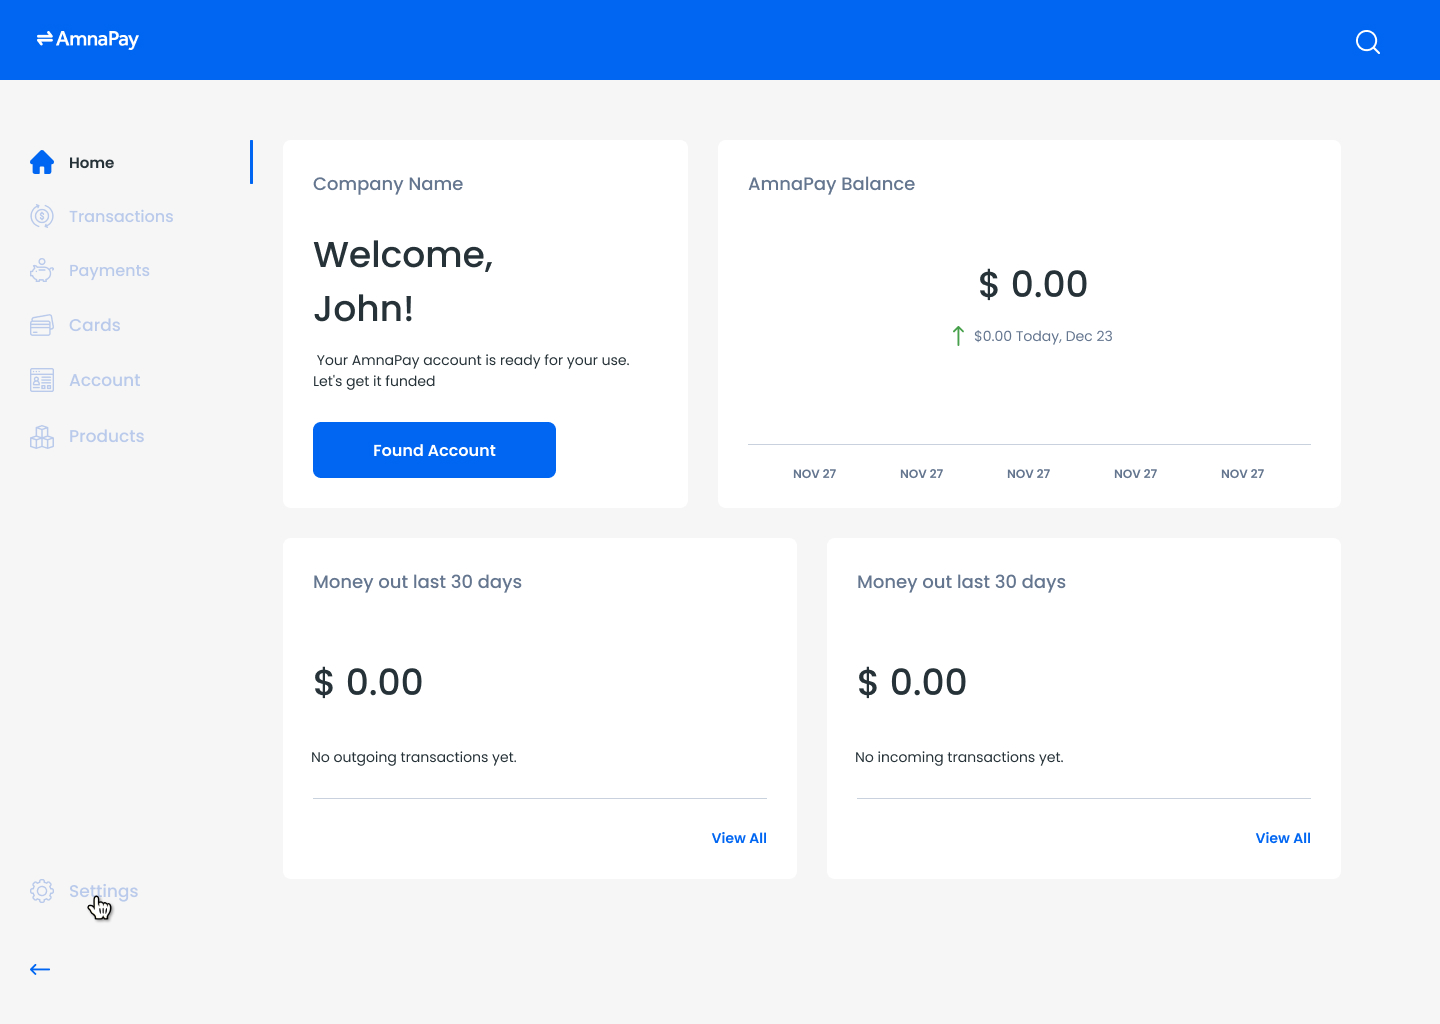
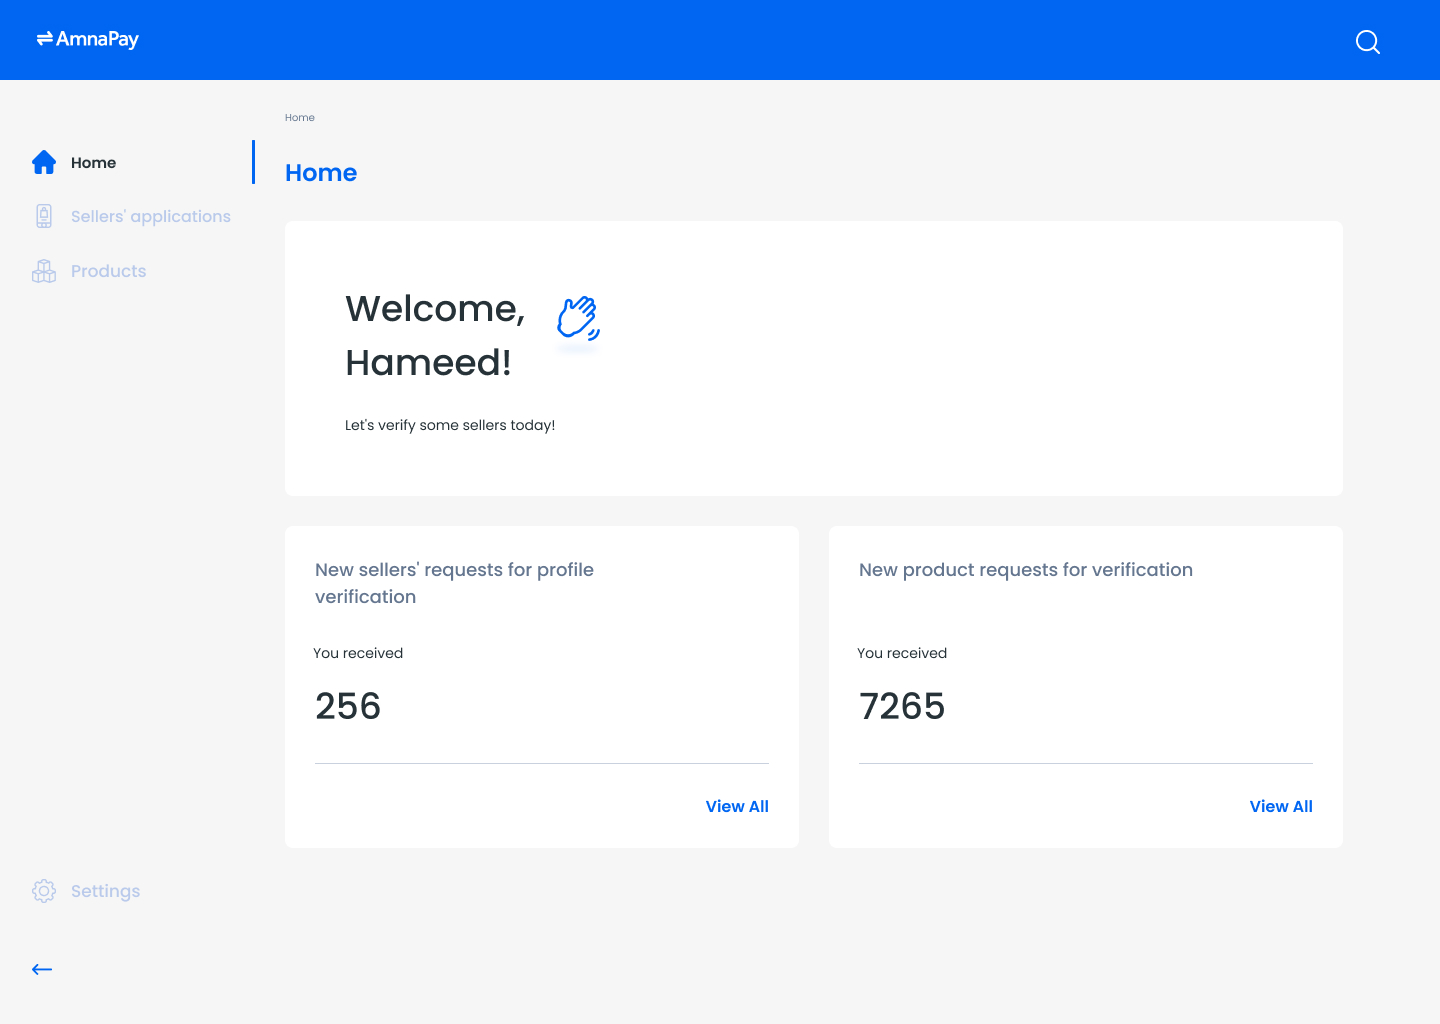
added underwriter's home page, fixed seller's home page

diff --git a/home_seller.html b/home_seller.html
@@ -85,73 +85,83 @@
               Log Out
             </a>
           </div>
-          <a href="#" class="link main-menu__link main-menu__settings-link">
-            <img src="./assets/images/icons/profile/settings.svg" class="main-menu__link-block" />
-            <img src="./assets/images/icons/profile/settings_active.svg" class="main-menu__link-block--active" />
-            Settings
-          </a>
+          <div class="main-menu__footer">
+            <a href="#" class="link main-menu__link main-menu__footer-settings">
+              <img src="./assets/images/icons/profile/settings.svg" class="main-menu__link-block" />
+              <img src="./assets/images/icons/profile/settings_active.svg" class="main-menu__link-block--active" />
+              Settings
+            </a>
+            <a href="#" class="link main-menu__link main-menu__footer-close">
+              <img src="./assets/images/icons/profile/arrow.svg" class="main-menu__link-block" />
+            </a>
+          </div>
         </div>
       </aside>
-      <div class="main-content main-content--bricks">
-        <div class="main-content--bricks--small bricks-content">
-          <h3 class="bricks-title">Company Name</h3>
-          <h2 class="bricks-content-title">
-            Welcome,
-            <span>John!</span>
-          </h2>
-          <div class="bricks-content-txt">
-            Your AmnaPay account is ready for your use. Let's get it funded
-          </div>
-          <input type="button" value="Found Account" class="input input--btn bricks-btn" />
-        </div>
-        <div class="main-content--bricks--big">
-          <h3 class="bricks-title">AmnaPay Balance</h3>
-          <div class="graph">
-            <h2 class="graph-money">$ 0.00</h2>
-            <div class="graph-status graph-status--negative">
-              <img src="./assets/images/icons/content/arrow-positive.svg"
-                class="graph-status__img graph-status__img--positive" />
-              <img src="./assets/images/icons/content/arrow-positive.svg"
-                class="graph-status__img graph-status__img--negative" />
-              <span>$0.00 Today, Dec 23</span>
+      <section class="main-box">
+        <p class="main-box__bread-crumbs">Profile/ Edition</p>
+        <h2 class="main-box__title">Personal Profile</h2>
+        <div class="main-content--bricks">
+          <div class="main-content--bricks--small bricks-content">
+            <h3 class="bricks-title">Company Name</h3>
+            <h2 class="bricks-content-title">
+              Welcome,
+              <span>John!</span>
+            </h2>
+            <div class="bricks-content-txt">
+              Your AmnaPay account is ready for your use. Let's get it funded
             </div>
-            <div class="graph-body">
-              <div class="graph-body__bottom">
-                <div>nov 27</div>
-                <div>nov 27</div>
-                <div>nov 27</div>
-                <div>nov 27</div>
-                <div>nov 27</div>
-                <div>nov 27</div>
+            <input type="button" value="Found Account" class="input input--btn bricks-btn" />
+          </div>
+          <div class="main-content--bricks--big">
+            <h3 class="bricks-title">AmnaPay Balance</h3>
+            <div class="graph">
+              <h2 class="graph-money">$ 0.00</h2>
+              <div class="graph-status graph-status--negative">
+                <img src="./assets/images/icons/content/arrow-positive.svg"
+                  class="graph-status__img graph-status__img--positive" />
+                <img src="./assets/images/icons/content/arrow-positive.svg"
+                  class="graph-status__img graph-status__img--negative" />
+                <span>$0.00 Today, Dec 23</span>
+              </div>
+              <div class="graph-body">
+                <div class="graph-body__bottom">
+                  <div>nov 27</div>
+                  <div>nov 27</div>
+                  <div>nov 27</div>
+                  <div>nov 27</div>
+                  <div>nov 27</div>
+                  <div>nov 27</div>
+                </div>
+              </div>
+            </div>
+          </div>
+          <div class="main-content--bricks--medium">
+            <h3 class="bricks-title">Money out last 30 days</h3>
+            <div class="bricks-content">
+              <h2 class="bricks-content__money">$ 0.00</h2>
+              <div class="bricks-content__status">
+                No outgoing transactions yet.
+              </div>
+              <div class="bricks-content__links">
+                <a href="#" class="link txt--blue bricks-content__links-item">View All</a>
+              </div>
+            </div>
+          </div>
+          <div class="main-content--bricks--medium">
+            <h3 class="bricks-title">Money out last 30 days</h3>
+            <div class="bricks-content">
+              <h2 class="bricks-content__money">$ 0.00</h2>
+              <div class="bricks-content__status">
+                No outgoing transactions yet.
+              </div>
+              <div class="bricks-content__links">
+                <a href="#" class="link txt--blue bricks-content__links-item">View All</a>
               </div>
             </div>
           </div>
         </div>
-        <div class="main-content--bricks--medium">
-          <h3 class="bricks-title">Money out last 30 days</h3>
-          <div class="bricks-content">
-            <h2 class="bricks-content__money">$ 0.00</h2>
-            <div class="bricks-content__status">
-              No outgoing transactions yet.
-            </div>
-            <div class="bricks-content__links">
-              <a href="#" class="link txt--blue bricks-content__links-item">View All</a>
-            </div>
-          </div>
-        </div>
-        <div class="main-content--bricks--medium">
-          <h3 class="bricks-title">Money out last 30 days</h3>
-          <div class="bricks-content">
-            <h2 class="bricks-content__money">$ 0.00</h2>
-            <div class="bricks-content__status">
-              No outgoing transactions yet.
-            </div>
-            <div class="bricks-content__links">
-              <a href="#" class="link txt--blue bricks-content__links-item">View All</a>
-            </div>
-          </div>
-        </div>
-      </div>
+      </section>
+      
     </div>
   </main>
 </body>

diff --git a/home_underwriter.html b/home_underwriter.html
@@ -1,0 +1,118 @@
+<!DOCTYPE html>
+<html lang="en">
+
+<head>
+  <meta charset="UTF-8" />
+  <meta http-equiv="X-UA-Compatible" content="IE=edge" />
+  <meta name="viewport" content="width=device-width, initial-scale=1.0" />
+  <title>profile</title>
+  <link rel="stylesheet" href="./assets/styles/style.css" />
+</head>
+
+<body>
+  <header class="header">
+    <div class="wrapper">
+      <div class="header-box">
+        <a href="#" class="header-box__logo"></a>
+      </div>
+    </div>
+  </header>
+  <main class="body-grey">
+    <div class="main wrapper">
+      <aside class="main-menu main-menu--padding">
+        <a href="#" class="link main-menu__link main-menu__link--active">
+          <img src="./assets/images/icons/profile/personal_profile.svg" class="main-menu__link-block" />
+          <img src="./assets/images/icons/profile/personal_profile_active.svg" class="main-menu__link-block--active" />
+          Home
+        </a>
+        <a href="#" class="link main-menu__link">
+          <img src="./assets/images/icons/profile/phone.svg" class="main-menu__link-block" />
+          <img src="./assets/images/icons/profile/phone_active.svg" class="main-menu__link-block--active" />
+          Sellers' application
+        </a>
+        <a href="#" class="link main-menu__link">
+          <img src="./assets/images/icons/profile/products.svg" class="main-menu__link-block" />
+          <img src="./assets/images/icons/profile/products_active.svg" class="main-menu__link-block--active" />
+          Products
+        </a>
+        <div class="main-menu__settings">
+          <div class="settings">
+            <div class="settings-header">
+              <div class="settings-header__photo"></div>
+              <div class="settings-header__info">
+                <span class="settings-header__info-name">John Smith</span>
+                <span>Seller</span>
+              </div>
+            </div>
+            <a href="#" class="link settings-link">
+              <img src="./assets/images/icons/settings/profile.svg" class="settings-link__img" />
+              <img src="./assets/images/icons/settings/profile_active.svg" class="settings-link__img--active" />
+              Profile
+            </a>
+            <a href="#" class="link settings-link">
+              <img src="./assets/images/icons/settings/log_out.svg" class="settings-link__img" />
+              <img src="./assets/images/icons/settings/log_out_active.svg" class="settings-link__img--active" />
+              Log Out
+            </a>
+          </div>
+          <div class="main-menu__footer">
+            <a href="#" class="link main-menu__link main-menu__footer-settings">
+              <img src="./assets/images/icons/profile/settings.svg" class="main-menu__link-block" />
+              <img src="./assets/images/icons/profile/settings_active.svg" class="main-menu__link-block--active" />
+              Settings
+            </a>
+            <a href="#" class="link main-menu__link main-menu__footer-close">
+              <img src="./assets/images/icons/profile/arrow.svg" class="main-menu__link-block" />
+            </a>
+          </div>
+        </div>
+      </aside>
+      <section class="main-box">
+        <p class="main-box__bread-crumbs">Home</p>
+        <h2 class="main-box__title">Home</h2>
+        <div class="main-content--bricks">
+          <div class="main-content--bricks--max bricks-content">
+            <img src="./assets/images/icons/hand.svg" class="bricks-content-img">
+            <h2 class="bricks-content-title">
+              Welcome,
+              <span>Hameed!</span>
+            </h2>
+            <div class="bricks-content-txt">
+              Let's verify some sellers today!  
+            </div>
+          </div>
+          <div class="main-content--bricks--medium">
+            <h3 class="bricks-title">
+              New sellers' requests for profile verification
+            </h3>
+            <div class="bricks-content-txt">
+              You received 
+            </div>
+            <div class="bricks-content">
+              <h2 class="bricks-content__money">256</h2>
+              <div class="bricks-content__links">
+                <a href="#" class="link txt--blue bricks-content__links-item">View All</a>
+              </div>
+            </div>
+          </div>
+          <div class="main-content--bricks--medium">
+            <h3 class="bricks-title">
+              New product requests for verification
+            </h3>
+            <div class="bricks-content-txt">
+              You received
+            </div>
+            <div class="bricks-content">
+              <h2 class="bricks-content__money">7265</h2>
+              <div class="bricks-content__links">
+                <a href="#" class="link txt--blue bricks-content__links-item">View All</a>
+              </div>
+            </div>
+          </div>
+        </div>
+      </section>
+    </div>
+  </main>
+</body>
+
+</html>

diff --git a/assets/styles/style.css b/assets/styles/style.css
@@ -676,7 +676,8 @@ option {
   display: block;
 }
 
-.main-menu__settings--active .main-menu__settings-link {
+.main-menu__settings--active .main-menu__settings-link,
+.main-menu__settings--active .main-menu__footer-settings {
   display: none;
 }
 
@@ -788,12 +789,14 @@ option {
   justify-content: space-between;
   align-items: stretch;
   flex-wrap: wrap;
+  padding-right: 60px;
   background-color: #f6f6f6;
 }
 
 .main-content--bricks--small,
 .main-content--bricks--big,
-.main-content--bricks--medium {
+.main-content--bricks--medium,
+.main-content--bricks--max {
   background-color: #ffffff;
   border-radius: 8px;
   padding: 30px;
@@ -805,11 +808,24 @@ option {
 }
 
 .main-content--bricks--small {
-  width: 370px;
+  width: 400px;
 }
 
 .main-content--bricks--medium {
   width: 48%;
+}
+
+.main-content--bricks--max{
+  width: 100%;
+  padding: 60px;
+}
+
+.main-content--bricks--max .bricks-content-title{
+  margin-bottom: 30px;
+}
+
+.main-content--bricks--max .bricks-content-txt{
+  margin: 0;
 }
 
 .main-content__colums{
@@ -841,7 +857,14 @@ option {
 }
 
 .bricks-content {
+  position: relative;
   font-size: 14px;
+}
+
+.bricks-content-img{
+  position: absolute;
+  top: 75px;
+  left: 265px;
 }
 
 .bricks-content-title {
@@ -856,7 +879,7 @@ option {
 }
 
 .bricks-btn {
-  width: 80%;
+  width: 245px;
 }
 
 .graph-money,

diff --git a/Profile_underwriter/profile_3.html b/Profile_underwriter/profile_3.html
@@ -27,7 +27,7 @@
       </a>
       <a href="#" class="link main-menu__link">
         <img src="../assets/images/icons/profile/phone.svg" class="main-menu__link-block" />
-        <!-- <img src="../assets/images/icons/profile/company_profile_active.svg" class="main-menu__link-block--active" /> -->
+        <img src="../assets/images/icons/profile/phone_active.svg" class="main-menu__link-block--active" />
         Sellers' application
       </a>
       <a href="#" class="link main-menu__link">
